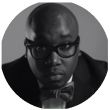
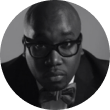
done

diff --git a/profile.html b/profile.html
@@ -1,0 +1,148 @@
+<!DOCTYPE html>
+<!DOCTYPE html>
+<html>
+<head>
+	<meta charset="utf-8">
+	<meta name="viewport" content="width=device-width, initial-scale=1">
+	<title>Circlesquared</title>
+
+
+
+<link href="https://cdn.jsdelivr.net/npm/bootstrap@5.0.2/dist/css/bootstrap.min.css" rel="stylesheet" integrity="sha384-EVSTQN3/azprG1Anm3QDgpJLIm9Nao0Yz1ztcQTwFspd3yD65VohhpuuCOmLASjC" crossorigin="anonymous">
+
+<link rel="stylesheet" type="text/css" href="stylesheet.css">
+
+</head>
+<body>
+
+    <section class="header">
+        <div class="condainer-fluid">
+
+            <div class="row mx-5 mt-4">
+                <div class="col-md-6 col-lg-4">
+                    <div class="left-icon">
+                        <div class="toggle  d-flex">
+                            <div class="form-check">
+                                <input class="form-check-input bg-primary" type="checkbox" value="" id="flexCheckDefault">
+                                <label class="form-check-label" for="flexCheckDefault">
+                                </label>
+                              </div>
+                              <img class="ms-5" src="./image/menu.svg">
+                        </div>
+                    </div>
+                </div>
+                <div class="col-md-6 col-lg-4 align-items-center">
+                    <div class="logo">
+                        <div class="logo-item">
+                           <a href="Dashboard.html"><img src="./image/CircleSquared-01.svg"></a>
+                        </div>
+                    </div>
+                </div>
+                <div class="col-md-6 col-lg-4 text-end">
+                    <div class="user-icon ">
+                        <div class="user">
+                            <div class="dropdown">
+                                <button class="btn btn-white border-0 p-0" type="button" data-bs-toggle="dropdown" aria-expanded="false">
+                                    <img src="./image/usericon.svg">
+                                </button>
+                                <ul class="dropdown-menu">
+                                  <li><a class="dropdown-item" href="#">Profile</a></li>
+                                  <li><a class="dropdown-item" href="#">User Invites</a></li>
+                                  <li><a class="dropdown-item" href="index.html">Sign Out</a></li>
+                                </ul>
+                              </div>
+                        </div>
+                    </div>
+                </div>
+<!---------navbar atart-->
+                <div class="row mt-4">
+                    <div class="col-md-8">
+                        <h4>Profile</h4>
+                    </div>
+
+                    <div class="col-md-4 m-0 p-0">
+                     
+                      <nav class="navbar navbar-expand-lg bg-primary">
+                        <div class="container">
+                          <button class="navbar-toggler" type="button" data-bs-toggle="collapse" data-bs-target="#navbarNavDropdown" aria-controls="navbarNavDropdown" aria-expanded="false" aria-label="Toggle navigation">
+                            <span class="navbar-toggler-icon"></span>
+                          </button>
+                          <div class="collapse navbar-collapse" id="navbarNavDropdown">
+                            <ul class="navbar-nav gap-4">
+                              <li class="nav-item dropdown">
+                                <a class="nav-link dropdown-toggle text-white  fw-semibold" href="#" role="button" data-bs-toggle="dropdown" aria-expanded="false">
+                                  Project
+                                </a>
+                                <ul class="dropdown-menu mt-2">
+                                  <li><a class="dropdown-item" href="#">My Project</a></li>
+                                  <li><a class="dropdown-item" href="#">Add Project</a></li>
+                                </ul>
+                              </li>
+                              <li class="nav-item">
+                                <a class="nav-link text-white fw-semibold" href="#">Test Suite</a>
+                              </li>
+                              <li class="nav-item">
+                                <a class="nav-link text-white fw-semibold" href="#">Test Case</a>
+                              </li>
+                              <li class="nav-item">
+                                <a class="nav-link text-white fw-semibold" href="#">Run</a>
+                              </li>
+                              <li class="nav-item">
+                                <a class="nav-link text-white fw-semibold" href="#">Defect</a>
+                              </li>
+                              <li class="nav-item">
+                                <a class="nav-link text-white fw-semibold" href="#">Apps</a>
+                              </li>
+                            </ul>
+                          </div>
+                        </div>
+                      </nav>
+
+                    </div>
+
+                </div>
+
+            </div>
+
+        </div> 
+    </section>
+
+<!------test suite start -->
+
+    <section class="Project Settings">
+        <div class="condainer-fluid">
+            <div class="row mx-5 mt-5">
+    
+                <div class="col-md-6 col-lg-12 ">
+                   
+                    <div class="container">
+                        <div class="row">
+                            <div class="profile_image d-flex">
+                                <img src="./image/profile.png">
+                                <div class="edit">
+                                    <i class="fa-solid fa-marker text-dark"></i>
+                                </div>
+                            </div>
+                        </div>
+                    </div>
+
+                </div>  
+
+                    <div class=" mt-4 mb-5">
+                       <a href="#"> <button type="button" class="btn btn-dark  px-4">Save</button></a>
+                    </div>
+                
+
+            </div>
+    
+    
+        </div>
+    </section> 
+
+
+
+	<script src="https://cdn.jsdelivr.net/npm/@popperjs/core@2.9.2/dist/umd/popper.min.js" integrity="sha384-IQsoLXl5PILFhosVNubq5LC7Qb9DXgDA9i+tQ8Zj3iwWAwPtgFTxbJ8NT4GN1R8p" crossorigin="anonymous"></script>
+<script src="https://cdn.jsdelivr.net/npm/bootstrap@5.0.2/dist/js/bootstrap.min.js" integrity="sha384-cVKIPhGWiC2Al4u+LWgxfKTRIcfu0JTxR+EQDz/bgldoEyl4H0zUF0QKbrJ0EcQF" crossorigin="anonymous"></script>
+
+</body>
+</html>

diff --git a/stylesheet.css b/stylesheet.css
@@ -248,3 +248,19 @@
     font-size: 12px;
 }
 
+.profile_image{
+    position: relative;
+}
+
+.edit{
+    width: 30px;
+    height: 30px;
+    color: white;
+    background-color: #4F82EC;
+    border-radius: 50%;
+    margin-top: 70px;
+    padding: auto;
+    margin-left: 80px;
+    position: absolute;
+}
+
